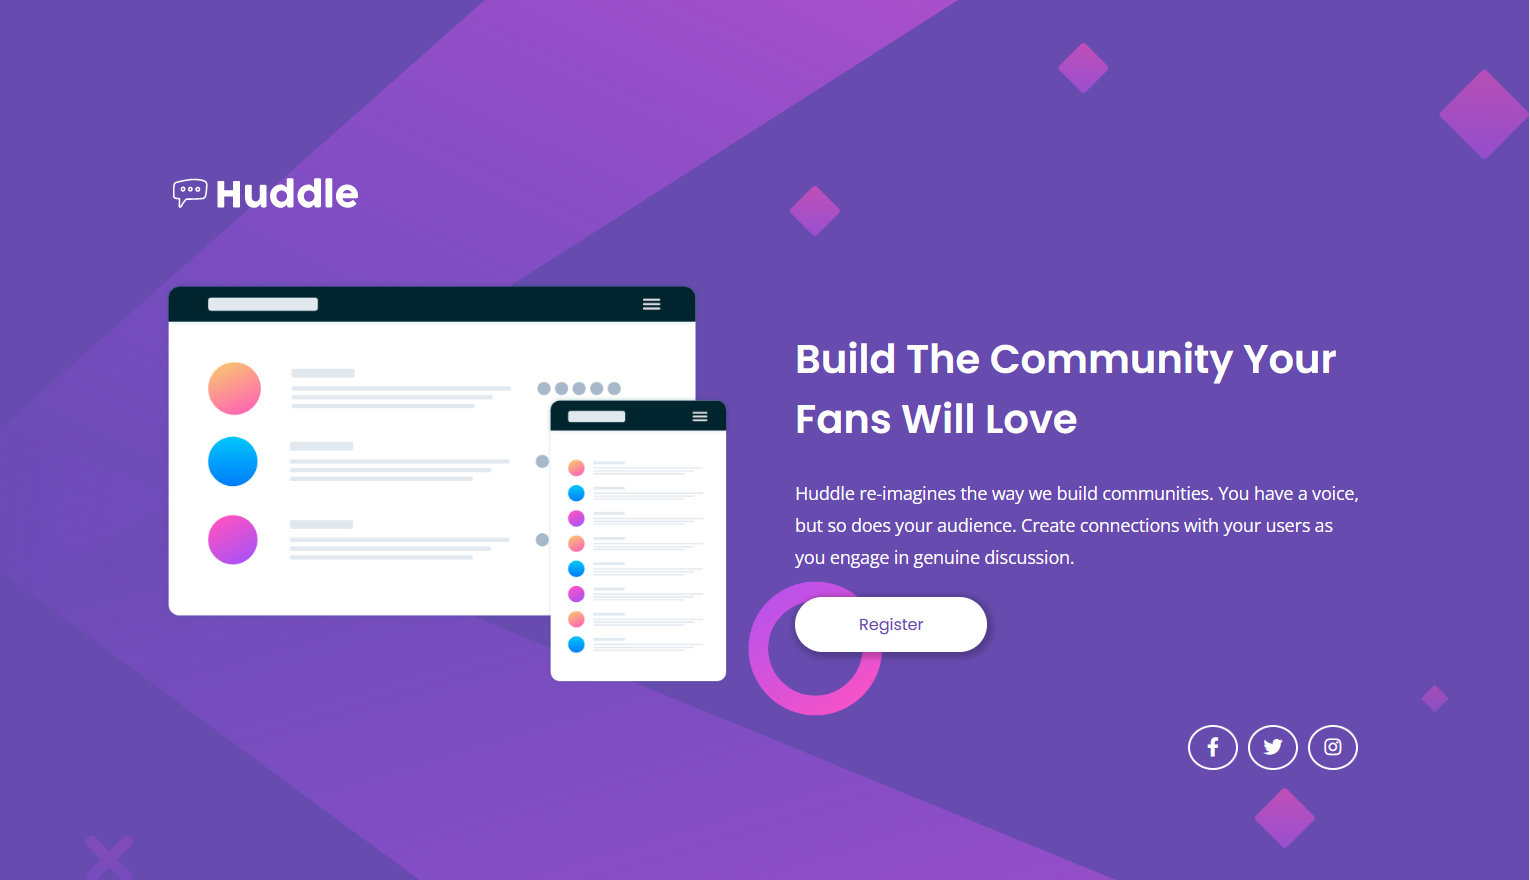
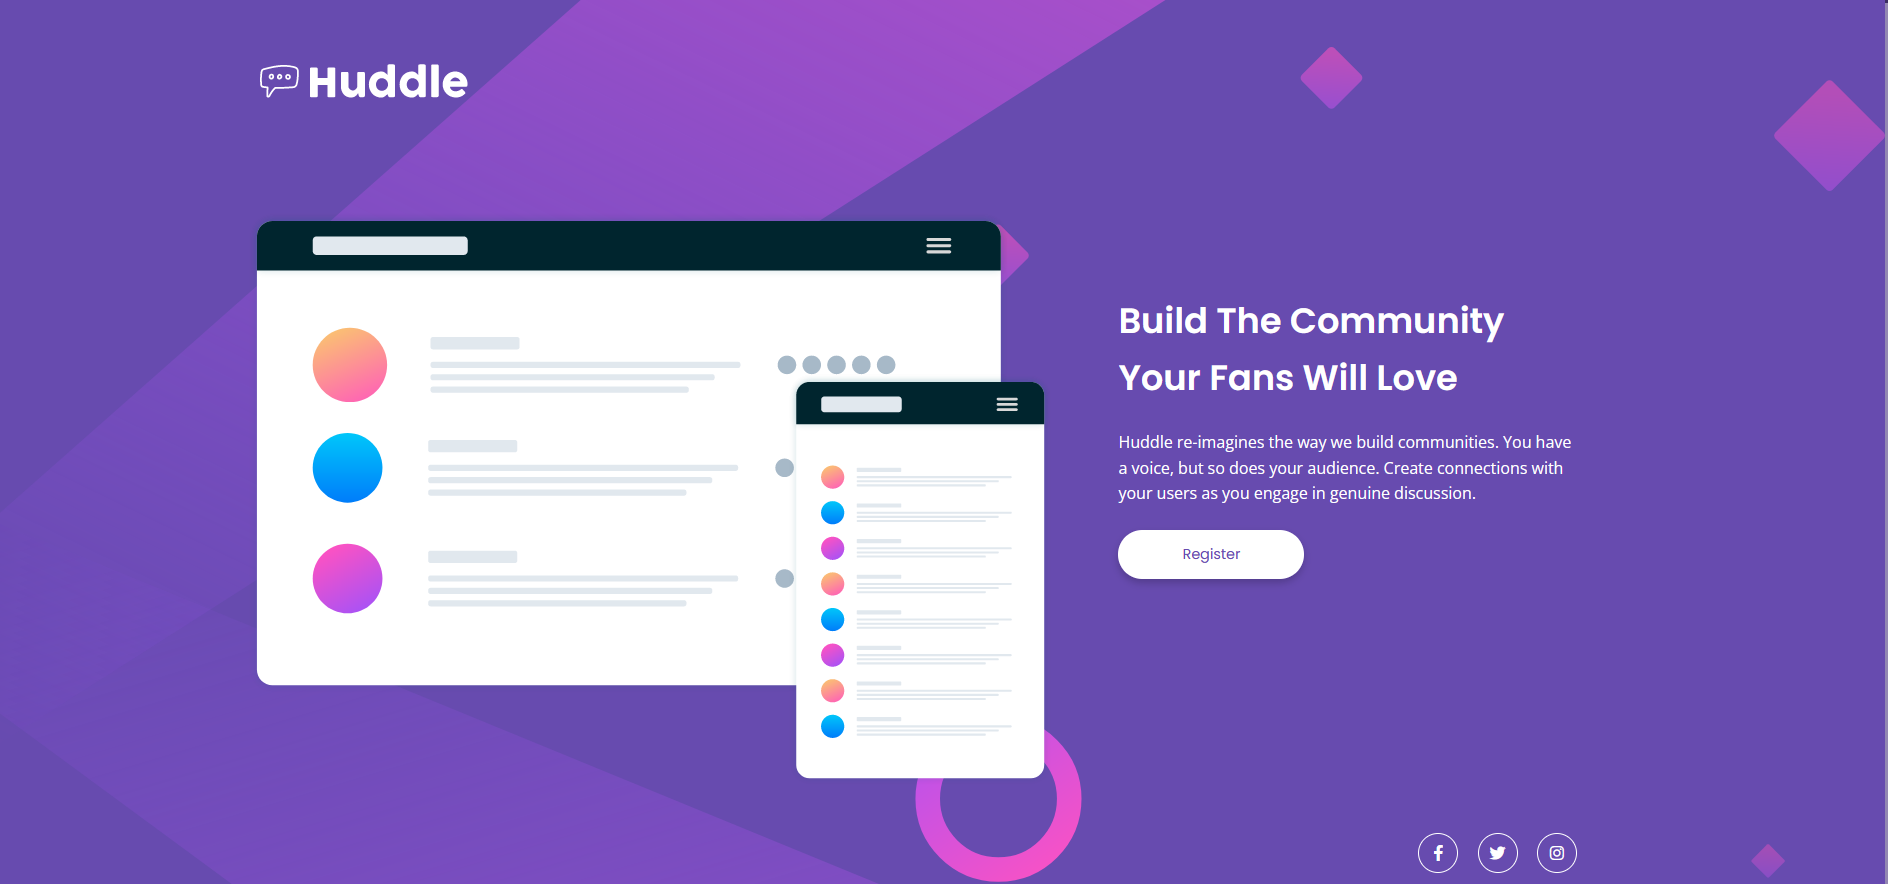
Adding README.md

diff --git a/huddle-landing-page-with-single-introductory-section-master/styles.css b/huddle-landing-page-with-single-introductory-section-master/styles.css
@@ -43,6 +43,7 @@ body{
   display: flex;
   flex-direction: column;
   align-items: center;
+  overflow: hidden;
 }
 
 /* Main data */
@@ -180,7 +181,7 @@ body{
   }
 
   .main{
-    margin: 3.2rem auto;
+    margin: 3rem auto;
     display: grid;
     grid-template-columns: 3fr 2fr;
     column-gap: 2rem;
@@ -204,7 +205,7 @@ body{
 
   .social-links{
     justify-content: flex-end;
-    margin: 0 2rem;
+    margin: 0 2rem 1rem;
     align-self: flex-end;
   }
   .social-link{

diff --git a/huddle-landing-page-with-single-introductory-section-master/README.md b/huddle-landing-page-with-single-introductory-section-master/README.md
@@ -1,0 +1,32 @@
+# Frontend Mentor - Huddle landing page with single introductory section solution
+
+This is a solution to the [Huddle landing page with single introductory section challenge on Frontend Mentor](https://www.frontendmentor.io/challenges/huddle-landing-page-with-a-single-introductory-section-B_2Wvxgi0). Frontend Mentor challenges help you improve your coding skills by building realistic projects. 
+
+## Table of contents
+- [Overview](#overview)
+    - [The challenge](#the-challenge)
+    - [Screenshot](#screenshot)
+    - [Links](#links)
+    - [Author](#author)
+
+## Overview
+
+### The challenge
+
+Users should be able to:
+
+- View the optimal layout depending on their device's screen size
+- See hover and focus states for interactive elements
+
+### Screenshot
+
+![](./screenshot.png)
+
+
+### Links
+- [Solution] (https://github.com/vidhitvarma/Frontend-Mentor-Projects/tree/main/huddle-landing-page-with-single-introductory-section-master)
+- [Live] (https://huddle-single-intro-vivarma.netlify.app/)
+
+## Author
+- Github - [Vidhit Varma] (https://github.com/vidhitvarma)
+- Frontend Mentor - [Vidhit Varma] (https://www.frontendmentor.io/profile/vidhitvarma)
